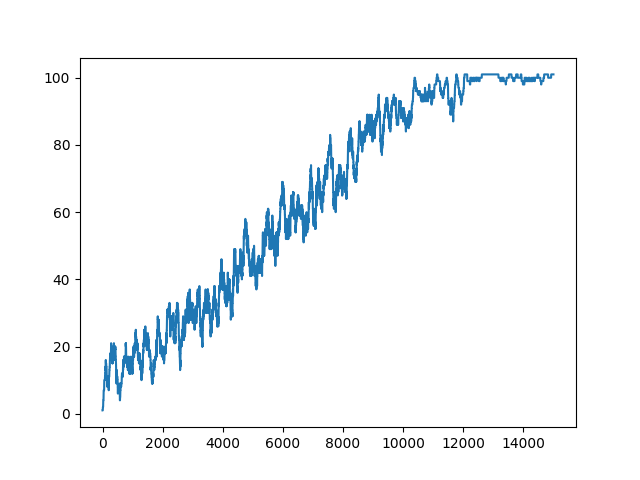
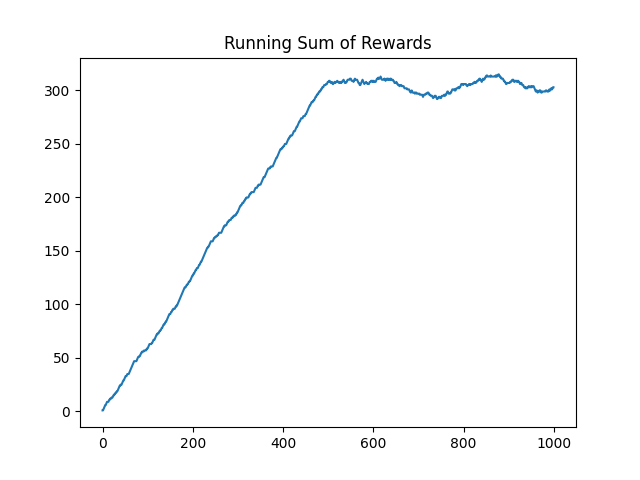
frozen lake original map version update

diff --git a/part2/frozen_lake_origin.py b/part2/frozen_lake_origin.py
@@ -1,0 +1,107 @@
+import gymnasium as gym
+import numpy as np
+import matplotlib.pyplot as plt
+import pickle
+
+def print_success_rate(rewards_per_episode):
+    """計算並印出成功率"""
+    total_episodes = len(rewards_per_episode)
+    success_count = np.sum(rewards_per_episode)
+    success_rate = (success_count / total_episodes) * 100
+    print(f"✅ Success Rate: {success_rate:.2f}% ({int(success_count)} / {total_episodes} episodes)")
+    return success_rate
+
+def run(episodes, is_training=True, render=False):
+    # 建立 8x8 滑溜環境
+    env = gym.make('FrozenLake-v1', map_name="8x8", is_slippery=True, render_mode='human' if render else None)
+
+    if(is_training):
+        q = np.zeros((env.observation_space.n, env.action_space.n)) 
+    else:
+        f = open('frozen_lake8x8.pkl', 'rb')
+        q = pickle.load(f)
+        f.close()
+
+    # --- 🔥 參數優化 (Optimized Params) ---
+    # 1. 學習率：固定或極慢衰減。在 Stochastic 環境中，0.1 是一個經驗上很穩定的值
+    learning_rate_a = 0.1
+    
+    # 2. Gamma：保持高數值，因為路徑很長
+    discount_factor_g = 0.99
+    
+    # 3. Epsilon 策略：根據總回合數動態調整
+    epsilon = 1         
+    min_exploration_rate = 0.01
+    # 讓 epsilon 在訓練進行到一半時才降到極低，確保前期充分探索
+    epsilon_decay_rate = 1.0 / (episodes * 0.6) 
+    
+    rng = np.random.default_rng()
+    rewards_per_episode = np.zeros(episodes)
+
+    for i in range(episodes):
+        state = env.reset()[0]
+        terminated = False
+        truncated = False
+        
+        while(not terminated and not truncated):
+            if is_training and rng.random() < epsilon:
+                action = env.action_space.sample()
+            else:
+                # 遇到 Q 值都一樣的情況 (例如初期)，隨機選擇以增加隨機性
+                if np.all(q[state, :] == q[state, 0]):
+                    action = env.action_space.sample()
+                else:
+                    action = np.argmax(q[state,:])
+
+            new_state, reward, terminated, truncated, _ = env.step(action)
+
+            if is_training:
+                # Q-Learning 更新公式
+                q[state,action] = q[state,action] + learning_rate_a * (
+                    reward + discount_factor_g * np.max(q[new_state,:]) - q[state,action]
+                )
+
+            state = new_state
+
+        # Epsilon 衰減
+        if is_training:
+            epsilon = max(epsilon - epsilon_decay_rate, min_exploration_rate)
+
+        if reward == 1:
+            rewards_per_episode[i] = 1
+        
+        # 每 5000 回合印一次進度，方便觀察
+        if (i+1) % 5000 == 0 and is_training:
+            print(f"Episode {i+1}: Current Epsilon {epsilon:.4f}")
+
+    env.close()
+
+    # 繪圖
+    sum_rewards = np.zeros(episodes)
+    window_size = 500 # 增加平滑視窗大小，圖表會比較好看
+    for t in range(episodes):
+        start_index = max(0, t - window_size)
+        sum_rewards[t] = np.sum(rewards_per_episode[start_index:(t+1)])
+    
+    plt.plot(sum_rewards)
+    plt.title('Running Sum of Rewards')
+    plt.savefig('frozen_lake8x8.png')
+    
+    if not is_training:
+        print_success_rate(rewards_per_episode)
+
+    if is_training:
+        f = open("frozen_lake8x8.pkl","wb")
+        pickle.dump(q, f)
+        f.close()
+        print("Training finished.")
+        # 檢查最後 1000 回合的表現 (這才是真正的收斂實力)
+        print("Training Last 1000 Episodes Success Rate (Reference):")
+        print_success_rate(rewards_per_episode[-1000:])
+
+if __name__ == '__main__':
+    #print("--- 🚀 Start Training (15000 episodes) ---")
+    #run(15000, is_training=True, render=False)
+    
+    print("\n--- 📊 Start Evaluation (1000 test episodes) ---")
+    run(1000, is_training=False, render=False)
